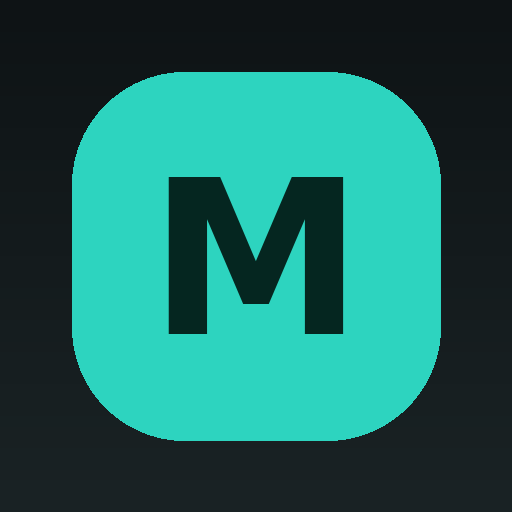
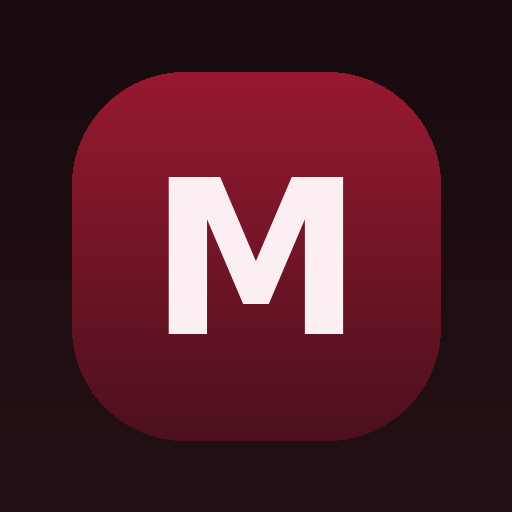
Add files via upload

diff --git a/index.html b/index.html
@@ -5,7 +5,7 @@
 <meta name="viewport" content="width=device-width, initial-scale=1.0, viewport-fit=cover, user-scalable=no">
 <title>MBC Driver Portal — Midnight Transit</title>
 <link rel="manifest" href="manifest.json">
-<meta name="theme-color" content="#0E1315">
+<meta name="theme-color" content="#170B0E">
 <link rel="icon" href="icon-192.png">
 <link rel="apple-touch-icon" href="icon-192.png">
 <meta name="mobile-web-app-capable" content="yes">
@@ -16,16 +16,16 @@
 <link href="https://fonts.googleapis.com/css2?family=Inter:wght@400;500;600;700&family=Space+Grotesk:wght@500;600;700&family=Noto+Nastaliq+Urdu:wght@500;700&family=Noto+Naskh+Arabic:wght@500;700&display=swap" rel="stylesheet">
 <style>
   :root{
-    --bg1:#0E1315; --bg2:#1A2325;
+    --bg1:#170B0E; --bg2:#241014;
     --glass: rgba(255,255,255,0.045);
     --glass-brd: rgba(255,255,255,0.10);
-    --accent:#2DD4BF; --accent-soft: rgba(45,212,191,0.16);
-    --text:#E7F3F1; --muted:#7E9490; --danger:#FF7A7A; --ok:#2DD4BF;
+    --accent:#A61B34; --accent-dark:#3D0F1A; --accent-soft: rgba(166,27,52,0.18);
+    --text:#F3E7E9; --muted:#A98890; --danger:#FF8A65; --ok:#3ADD8A; --ok-soft: rgba(58,221,138,0.15);
   }
   *{box-sizing:border-box;}
   body{
     margin:0; min-height:100vh; display:flex; align-items:center; justify-content:center;
-    background: radial-gradient(circle at 50% -10%, #17302d 0%, var(--bg1) 45%, var(--bg2) 100%);
+    background: radial-gradient(circle at 50% -10%, #3a1420 0%, var(--bg1) 45%, var(--bg2) 100%);
     font-family:'Inter',sans-serif; color:var(--text); padding:24px 12px;
   }
   h1, .card-title{ font-family:'Space Grotesk', sans-serif; }
@@ -45,7 +45,7 @@
     box-shadow: 0 30px 60px -20px rgba(0,0,0,0.6);
   }
   .screen{
-    border-radius:30px; overflow:hidden; min-height:720px;
+    border-radius:30px; overflow:hidden; overflow-y:auto; max-height: calc(100vh - 32px);
     background: var(--glass);
     backdrop-filter: blur(34px) saturate(170%);
     -webkit-backdrop-filter: blur(34px) saturate(170%);
@@ -66,15 +66,15 @@
     padding:6px 12px; border-radius:999px; border:1px solid var(--glass-brd);
     background:rgba(255,255,255,0.04); color:var(--muted); cursor:pointer;
   }
-  .lang-btn.active{ background:var(--accent); color:#0C1220; border-color:var(--accent); }
+  .lang-btn.active{ background:var(--accent); color:#FBEFF1; border-color:var(--accent); }
 
   .content{ padding:28px 26px 20px; position:relative; z-index:2; flex:1; display:flex; flex-direction:column; }
   .brandrow{ display:flex; align-items:center; gap:12px; margin-bottom:26px; }
   .logo{
-    width:44px; height:44px; border-radius:13px; flex:none;
-    background: linear-gradient(135deg, var(--accent), #1B8F80);
-    display:flex; align-items:center; justify-content:center; font-weight:800; font-size:18px; color:#052620;
-    box-shadow: 0 8px 20px -6px rgba(45,212,191,0.5);
+    width:38px; height:38px; border-radius:11px; flex:none;
+    background: linear-gradient(135deg, var(--accent), var(--accent-dark));
+    display:flex; align-items:center; justify-content:center; font-weight:800; font-size:16px; color:#FBEFF1;
+    box-shadow: 0 8px 20px -6px rgba(166,27,52,0.55);
   }
   h1{ font-size:19px; margin:0; font-weight:700; letter-spacing:.1px; }
   .tagline{ margin:2px 0 0; font-size:12.5px; color:var(--muted); line-height:1.4; }
@@ -94,9 +94,9 @@
 
   .primary-btn{
     width:100%; padding:14px; border:none; border-radius:12px; margin-top:6px;
-    background:linear-gradient(135deg, var(--accent), #1B8F80); color:#052620;
+    background:linear-gradient(135deg, var(--accent), var(--accent-dark)); color:#FBEFF1;
     font-size:14.5px; font-weight:700; cursor:pointer; letter-spacing:.2px;
-    box-shadow: 0 10px 24px -8px rgba(45,212,191,0.45);
+    box-shadow: 0 10px 24px -8px rgba(166,27,52,0.45);
   }
   .primary-btn:active{ transform: translateY(1px); }
 
@@ -127,12 +127,12 @@
   .icon-btn.exit-btn{ color:var(--danger); border-color:rgba(255,122,122,0.3); background:rgba(255,122,122,0.08); }
 
   @keyframes readyPulse{
-    0%,100%{ box-shadow: 0 10px 24px -8px rgba(45,212,191,0.45), 0 0 0 0 rgba(45,212,191,0.5); }
-    50%{ box-shadow: 0 10px 30px -6px rgba(45,212,191,0.7), 0 0 0 8px rgba(45,212,191,0); }
+    0%,100%{ box-shadow: 0 10px 24px -8px rgba(166,27,52,0.45), 0 0 0 0 rgba(166,27,52,0.5); }
+    50%{ box-shadow: 0 10px 30px -6px rgba(166,27,52,0.7), 0 0 0 8px rgba(166,27,52,0); }
   }
   .primary-btn.ready{ animation: readyPulse 1.4s ease-in-out infinite; }
 
-  .photo-row{ display:flex; gap:10px; justify-content:center; margin-bottom:8px; }
+  .photo-row{ display:flex; gap:10px; justify-content:center; margin-bottom:8px; cursor:pointer; }
   .photo-slot{
     width:72px; height:72px; border-radius:20px; border:1.5px dashed var(--glass-brd);
     background:rgba(255,255,255,0.05); background-size:cover; background-position:center;
@@ -143,9 +143,9 @@
 
   .success-wrap{ display:flex; flex-direction:column; align-items:center; text-align:center; padding:30px 6px; }
   .success-check{
-    width:74px; height:74px; border-radius:50%; background:var(--accent-soft);
+    width:74px; height:74px; border-radius:50%; background:var(--ok-soft);
     display:flex; align-items:center; justify-content:center; font-size:34px; color:var(--ok);
-    margin-bottom:18px; border:1.5px solid var(--accent);
+    margin-bottom:18px; border:1.5px solid var(--ok);
   }
   .success-title{ font-family:'Space Grotesk',sans-serif; font-size:18px; font-weight:700; margin:0 0 8px; }
   .success-sub{ font-size:12.5px; color:var(--muted); line-height:1.6; margin:0 0 26px; max-width:280px; }
@@ -201,13 +201,11 @@
       <p class="card-sub" id="step2Sub"></p>
 
       <div class="photo-wrap">
-        <div class="photo-row">
-          <input type="file" id="photoInput0" accept="image/*" style="display:none" onchange="onPhotoChosen(event,0)">
-          <div class="photo-slot" id="photoSlot0" onclick="document.getElementById('photoInput0').click()">📷</div>
-          <input type="file" id="photoInput1" accept="image/*" style="display:none" onchange="onPhotoChosen(event,1)">
-          <div class="photo-slot" id="photoSlot1" onclick="document.getElementById('photoInput1').click()">📷</div>
-          <input type="file" id="photoInput2" accept="image/*" style="display:none" onchange="onPhotoChosen(event,2)">
-          <div class="photo-slot" id="photoSlot2" onclick="document.getElementById('photoInput2').click()">📷</div>
+        <input type="file" id="photoInputMulti" accept="image/*" multiple style="display:none" onchange="onPhotosChosen(event)">
+        <div class="photo-row" onclick="document.getElementById('photoInputMulti').click()">
+          <div class="photo-slot" id="photoSlot0">📷</div>
+          <div class="photo-slot" id="photoSlot1">📷</div>
+          <div class="photo-slot" id="photoSlot2">📷</div>
         </div>
         <span class="photo-cap" id="photoLabel">Attach up to 3 photos</span>
       </div>
@@ -244,11 +242,11 @@ const LANGS = [
   {code:'hi', label:'हिं', rtl:false},
 ];
 const T = {
-  en:{appName:"MBC Driver Portal",tagline:"Verified access for Modern Bus Company drivers",loginTitle:"Sign in",empId:"Employee ID",empIdPh:"MBC-1042",empIdConfirm:"Re-enter Employee ID",loginBtn:"Continue",loginHint:"Only Employee IDs registered by MBC can sign in.",welcomeDear:"Welcome, Dear {name}",step2Sub:"This information is saved against Employee ID {id}",photoLabel:"Attach up to 3 photos",email:"Email address",emailConfirm:"Re-enter email address",mobile:"WhatsApp Number (Saudi)",mobileConfirm:"Re-enter WhatsApp Number",submit:"Save details",footer:"Modern Bus Company · Makkah",errNotFound:"Please check your Employee ID — this ID does not look correct.",errMismatch:"The two Employee ID entries do not match.",errEmailMismatch:"The two email addresses do not match. Please check and try again.",errMobileMismatch:"The two WhatsApp numbers do not match. Please check and try again.",errMobileLength:"Please enter a valid WhatsApp number — it looks too short.",savedMsg:"Saved successfully.",backLabel:"Back",exitLabel:"Exit",successTitle:"Submitted!",successSub:"Your details have been saved. Tap Exit and sign in again to submit for another driver."},
-  ur:{appName:"ایم بی سی ڈرائیور پورٹل",tagline:"ماڈرن بس کمپنی کے ڈرائیورز کے لیے تصدیق شدہ رسائی",loginTitle:"لاگ ان کریں",empId:"ایمپلائی آئی ڈی",empIdPh:"MBC-1042",empIdConfirm:"ایمپلائی آئی ڈی دوبارہ درج کریں",loginBtn:"جاری رکھیں",loginHint:"صرف وہ ایمپلائی آئی ڈی جو MBC نے رجسٹر کی ہیں لاگ ان کر سکتی ہیں۔",welcomeDear:"خوش آمدید، پیارے {name}",step2Sub:"یہ معلومات ایمپلائی آئی ڈی {id} کے ساتھ محفوظ ہوں گی",photoLabel:"زیادہ سے زیادہ 3 تصاویر منسلک کریں",email:"ای میل ایڈریس",emailConfirm:"ای میل دوبارہ درج کریں",mobile:"واٹس ایپ نمبر (سعودی)",mobileConfirm:"واٹس ایپ نمبر دوبارہ درج کریں",submit:"تفصیلات محفوظ کریں",footer:"ماڈرن بس کمپنی · مکہ",errNotFound:"اپنی آئی ڈی پر غور کریں، یہ آئی ڈی غلط لگ رہی ہے۔",errMismatch:"دونوں دفعہ درج کی گئی آئی ڈی ایک جیسی نہیں ہیں۔",errEmailMismatch:"آپ کی ای میل میچ نہیں ہو رہی، دوبارہ چیک کریں۔",errMobileMismatch:"آپ کا نمبر میچ نہیں ہو رہا، دوبارہ چیک کریں۔",errMobileLength:"درست واٹس ایپ نمبر درج کریں، یہ نمبر بہت مختصر لگ رہا ہے۔",savedMsg:"کامیابی سے محفوظ ہو گیا۔",backLabel:"پیچھے",exitLabel:"باہر نکلیں",successTitle:"جمع ہو گیا!",successSub:"آپ کی تفصیلات محفوظ ہو گئی ہیں۔ دوبارہ جمع کروانے کے لیے Exit دبائیں اور دوبارہ لاگ ان کریں۔"},
-  ar:{appName:"بوابة سائقي إم بي سي",tagline:"دخول موثّق لسائقي شركة الحافلات الحديثة",loginTitle:"تسجيل الدخول",empId:"رقم الموظف",empIdPh:"MBC-1042",empIdConfirm:"أعد إدخال رقم الموظف",loginBtn:"متابعة",loginHint:"يمكن فقط لأرقام الموظفين المسجّلة لدى الشركة تسجيل الدخول.",welcomeDear:"أهلاً وسهلاً، عزيزي {name}",step2Sub:"سيتم حفظ هذه المعلومات مع رقم الموظف {id}",photoLabel:"أرفق حتى 3 صور",email:"البريد الإلكتروني",emailConfirm:"أعد إدخال البريد الإلكتروني",mobile:"رقم واتساب (السعودية)",mobileConfirm:"أعد إدخال رقم واتساب",submit:"حفظ البيانات",footer:"شركة الحافلات الحديثة · مكة",errNotFound:"يرجى مراجعة رقم موظفك، هذا الرقم يبدو غير صحيح.",errMismatch:"رقما الموظف المدخلان غير متطابقين.",errEmailMismatch:"البريدان الإلكترونيان غير متطابقين، يرجى التحقق مرة أخرى.",errMobileMismatch:"رقما واتساب غير متطابقين، يرجى التحقق مرة أخرى.",errMobileLength:"يرجى إدخال رقم واتساب صحيح، الرقم يبدو قصيراً جداً.",savedMsg:"تم الحفظ بنجاح.",backLabel:"رجوع",exitLabel:"خروج",successTitle:"تم الإرسال!",successSub:"تم حفظ بياناتك. اضغط خروج وسجّل الدخول مرة أخرى للإرسال مجددًا."},
-  id:{appName:"Portal Sopir MBC",tagline:"Akses terverifikasi untuk sopir Modern Bus Company",loginTitle:"Masuk",empId:"ID Karyawan",empIdPh:"MBC-1042",empIdConfirm:"Masukkan ulang ID Karyawan",loginBtn:"Lanjutkan",loginHint:"Hanya ID Karyawan yang terdaftar di MBC yang bisa masuk.",welcomeDear:"Selamat datang, {name}",step2Sub:"Informasi ini disimpan untuk ID Karyawan {id}",photoLabel:"Lampirkan hingga 3 foto",email:"Alamat email",emailConfirm:"Masukkan ulang email",mobile:"Nomor WhatsApp (Saudi)",mobileConfirm:"Masukkan ulang nomor WhatsApp",submit:"Simpan data",footer:"Modern Bus Company · Makkah",errNotFound:"Silakan periksa kembali ID Karyawan Anda, ID ini tampaknya salah.",errMismatch:"Kedua ID Karyawan yang dimasukkan tidak cocok.",errEmailMismatch:"Kedua alamat email tidak cocok. Silakan periksa kembali.",errMobileMismatch:"Kedua nomor WhatsApp tidak cocok. Silakan periksa kembali.",errMobileLength:"Masukkan nomor WhatsApp yang valid, nomor ini tampak terlalu pendek.",savedMsg:"Berhasil disimpan.",backLabel:"Kembali",exitLabel:"Keluar",successTitle:"Berhasil dikirim!",successSub:"Data Anda telah disimpan. Tekan Keluar dan masuk lagi untuk mengirim data baru."},
-  hi:{appName:"एमबीसी ड्राइवर पोर्टल",tagline:"मॉडर्न बस कंपनी के ड्राइवरों के लिए सत्यापित पहुंच",loginTitle:"साइन इन करें",empId:"कर्मचारी आईडी",empIdPh:"MBC-1042",empIdConfirm:"कर्मचारी आईडी दोबारा दर्ज करें",loginBtn:"जारी रखें",loginHint:"केवल MBC में दर्ज कर्मचारी आईडी ही साइन इन कर सकती हैं।",welcomeDear:"स्वागत है, प्रिय {name}",step2Sub:"यह जानकारी कर्मचारी आईडी {id} के साथ सहेजी जाएगी",photoLabel:"अधिकतम 3 फ़ोटो अटैच करें",email:"ईमेल पता",emailConfirm:"ईमेल दोबारा दर्ज करें",mobile:"व्हाट्सएप नंबर (सऊदी)",mobileConfirm:"व्हाट्सएप नंबर दोबारा दर्ज करें",submit:"जानकारी सहेजें",footer:"मॉडर्न बस कंपनी · मक्का",errNotFound:"अपनी कर्मचारी आईडी दोबारा देखें, यह आईडी गलत लग रही है।",errMismatch:"दर्ज की गई दोनों आईडी मेल नहीं खातीं।",errEmailMismatch:"आपका ईमेल मेल नहीं खा रहा, दोबारा जांचें।",errMobileMismatch:"आपका नंबर मेल नहीं खा रहा, दोबारा जांचें।",errMobileLength:"कृपया सही व्हाट्सएप नंबर दर्ज करें, यह नंबर बहुत छोटा लग रहा है।",savedMsg:"सफलतापूर्वक सहेजा गया।",backLabel:"वापस",exitLabel:"बाहर निकलें",successTitle:"सबमिट हो गया!",successSub:"आपकी जानकारी सहेज ली गई है। दोबारा सबमिट करने के लिए Exit दबाएं और फिर से लॉगिन करें।"},
+  en:{appName:"MBC Driver Portal",tagline:"Verified access for Modern Bus Company drivers",loginTitle:"Sign in",empId:"Employee ID",empIdPh:"Ex.11410",empIdConfirm:"Re-enter Employee ID",loginBtn:"Continue",loginHint:"Only Employee IDs registered by MBC can sign in.",welcomeDear:"Welcome, Dear {name}",step2Sub:"This information is saved against Employee ID {id}",photoLabel:"Attach up to 3 photos",email:"Email address",emailConfirm:"Re-enter email address",mobile:"WhatsApp Number (Saudi)",mobileConfirm:"Re-enter WhatsApp Number",submit:"Save details",footer:"Modern Bus Company · Makkah",errNotFound:"Please check your Employee ID — this ID does not look correct.",errMismatch:"The two Employee ID entries do not match.",errEmailMismatch:"The two email addresses do not match. Please check and try again.",errMobileMismatch:"The two WhatsApp numbers do not match. Please check and try again.",errMobileLength:"Please enter a valid WhatsApp number — it looks too short.",savedMsg:"Saved successfully.",backLabel:"Back",exitLabel:"Exit",successTitle:"Submitted!",successSub:"Your details have been saved. Tap Exit and sign in again to submit for another driver."},
+  ur:{appName:"ایم بی سی ڈرائیور پورٹل",tagline:"ماڈرن بس کمپنی کے ڈرائیورز کے لیے تصدیق شدہ رسائی",loginTitle:"لاگ ان کریں",empId:"ایمپلائی آئی ڈی",empIdPh:"Ex.11410",empIdConfirm:"ایمپلائی آئی ڈی دوبارہ درج کریں",loginBtn:"جاری رکھیں",loginHint:"صرف وہ ایمپلائی آئی ڈی جو MBC نے رجسٹر کی ہیں لاگ ان کر سکتی ہیں۔",welcomeDear:"خوش آمدید، پیارے {name}",step2Sub:"یہ معلومات ایمپلائی آئی ڈی {id} کے ساتھ محفوظ ہوں گی",photoLabel:"زیادہ سے زیادہ 3 تصاویر منسلک کریں",email:"ای میل ایڈریس",emailConfirm:"ای میل دوبارہ درج کریں",mobile:"واٹس ایپ نمبر (سعودی)",mobileConfirm:"واٹس ایپ نمبر دوبارہ درج کریں",submit:"تفصیلات محفوظ کریں",footer:"ماڈرن بس کمپنی · مکہ",errNotFound:"اپنی آئی ڈی پر غور کریں، یہ آئی ڈی غلط لگ رہی ہے۔",errMismatch:"دونوں دفعہ درج کی گئی آئی ڈی ایک جیسی نہیں ہیں۔",errEmailMismatch:"آپ کی ای میل میچ نہیں ہو رہی، دوبارہ چیک کریں۔",errMobileMismatch:"آپ کا نمبر میچ نہیں ہو رہا، دوبارہ چیک کریں۔",errMobileLength:"درست واٹس ایپ نمبر درج کریں، یہ نمبر بہت مختصر لگ رہا ہے۔",savedMsg:"کامیابی سے محفوظ ہو گیا۔",backLabel:"پیچھے",exitLabel:"باہر نکلیں",successTitle:"جمع ہو گیا!",successSub:"آپ کی تفصیلات محفوظ ہو گئی ہیں۔ دوبارہ جمع کروانے کے لیے Exit دبائیں اور دوبارہ لاگ ان کریں۔"},
+  ar:{appName:"بوابة سائقي إم بي سي",tagline:"دخول موثّق لسائقي شركة الحافلات الحديثة",loginTitle:"تسجيل الدخول",empId:"رقم الموظف",empIdPh:"Ex.11410",empIdConfirm:"أعد إدخال رقم الموظف",loginBtn:"متابعة",loginHint:"يمكن فقط لأرقام الموظفين المسجّلة لدى الشركة تسجيل الدخول.",welcomeDear:"أهلاً وسهلاً، عزيزي {name}",step2Sub:"سيتم حفظ هذه المعلومات مع رقم الموظف {id}",photoLabel:"أرفق حتى 3 صور",email:"البريد الإلكتروني",emailConfirm:"أعد إدخال البريد الإلكتروني",mobile:"رقم واتساب (السعودية)",mobileConfirm:"أعد إدخال رقم واتساب",submit:"حفظ البيانات",footer:"شركة الحافلات الحديثة · مكة",errNotFound:"يرجى مراجعة رقم موظفك، هذا الرقم يبدو غير صحيح.",errMismatch:"رقما الموظف المدخلان غير متطابقين.",errEmailMismatch:"البريدان الإلكترونيان غير متطابقين، يرجى التحقق مرة أخرى.",errMobileMismatch:"رقما واتساب غير متطابقين، يرجى التحقق مرة أخرى.",errMobileLength:"يرجى إدخال رقم واتساب صحيح، الرقم يبدو قصيراً جداً.",savedMsg:"تم الحفظ بنجاح.",backLabel:"رجوع",exitLabel:"خروج",successTitle:"تم الإرسال!",successSub:"تم حفظ بياناتك. اضغط خروج وسجّل الدخول مرة أخرى للإرسال مجددًا."},
+  id:{appName:"Portal Sopir MBC",tagline:"Akses terverifikasi untuk sopir Modern Bus Company",loginTitle:"Masuk",empId:"ID Karyawan",empIdPh:"Ex.11410",empIdConfirm:"Masukkan ulang ID Karyawan",loginBtn:"Lanjutkan",loginHint:"Hanya ID Karyawan yang terdaftar di MBC yang bisa masuk.",welcomeDear:"Selamat datang, {name}",step2Sub:"Informasi ini disimpan untuk ID Karyawan {id}",photoLabel:"Lampirkan hingga 3 foto",email:"Alamat email",emailConfirm:"Masukkan ulang email",mobile:"Nomor WhatsApp (Saudi)",mobileConfirm:"Masukkan ulang nomor WhatsApp",submit:"Simpan data",footer:"Modern Bus Company · Makkah",errNotFound:"Silakan periksa kembali ID Karyawan Anda, ID ini tampaknya salah.",errMismatch:"Kedua ID Karyawan yang dimasukkan tidak cocok.",errEmailMismatch:"Kedua alamat email tidak cocok. Silakan periksa kembali.",errMobileMismatch:"Kedua nomor WhatsApp tidak cocok. Silakan periksa kembali.",errMobileLength:"Masukkan nomor WhatsApp yang valid, nomor ini tampak terlalu pendek.",savedMsg:"Berhasil disimpan.",backLabel:"Kembali",exitLabel:"Keluar",successTitle:"Berhasil dikirim!",successSub:"Data Anda telah disimpan. Tekan Keluar dan masuk lagi untuk mengirim data baru."},
+  hi:{appName:"एमबीसी ड्राइवर पोर्टल",tagline:"मॉडर्न बस कंपनी के ड्राइवरों के लिए सत्यापित पहुंच",loginTitle:"साइन इन करें",empId:"कर्मचारी आईडी",empIdPh:"Ex.11410",empIdConfirm:"कर्मचारी आईडी दोबारा दर्ज करें",loginBtn:"जारी रखें",loginHint:"केवल MBC में दर्ज कर्मचारी आईडी ही साइन इन कर सकती हैं।",welcomeDear:"स्वागत है, प्रिय {name}",step2Sub:"यह जानकारी कर्मचारी आईडी {id} के साथ सहेजी जाएगी",photoLabel:"अधिकतम 3 फ़ोटो अटैच करें",email:"ईमेल पता",emailConfirm:"ईमेल दोबारा दर्ज करें",mobile:"व्हाट्सएप नंबर (सऊदी)",mobileConfirm:"व्हाट्सएप नंबर दोबारा दर्ज करें",submit:"जानकारी सहेजें",footer:"मॉडर्न बस कंपनी · मक्का",errNotFound:"अपनी कर्मचारी आईडी दोबारा देखें, यह आईडी गलत लग रही है।",errMismatch:"दर्ज की गई दोनों आईडी मेल नहीं खातीं।",errEmailMismatch:"आपका ईमेल मेल नहीं खा रहा, दोबारा जांचें।",errMobileMismatch:"आपका नंबर मेल नहीं खा रहा, दोबारा जांचें।",errMobileLength:"कृपया सही व्हाट्सएप नंबर दर्ज करें, यह नंबर बहुत छोटा लग रहा है।",savedMsg:"सफलतापूर्वक सहेजा गया।",backLabel:"वापस",exitLabel:"बाहर निकलें",successTitle:"सबमिट हो गया!",successSub:"आपकी जानकारी सहेज ली गई है। दोबारा सबमिट करने के लिए Exit दबाएं और फिर से लॉगिन करें।"},
 };
 // Your deployed Apps Script Web App URL
 const API_URL = 'https://script.google.com/macros/s/AKfycbxJJ_BIOp4RffNmyJ9pS4IT8xKfi4ijHlPuGoWUxla8M7_rdPsrFobkf1Zd55U9UIrl/exec';
@@ -318,18 +316,24 @@ function setLang(code){
   document.getElementById('successSub').textContent=t.successSub;
   buildLangBar();
 }
-function onPhotoChosen(ev, idx){
-  const file = ev.target.files[0];
-  if(!file) return;
-  photosMime[idx] = file.type;
-  const reader = new FileReader();
-  reader.onload = function(e){
-    photosBase64[idx] = e.target.result;
-    const slot = document.getElementById('photoSlot'+idx);
-    slot.style.backgroundImage = `url(${photosBase64[idx]})`;
-    slot.textContent = '';
-  };
-  reader.readAsDataURL(file);
+function onPhotosChosen(ev){
+  const files = Array.from(ev.target.files).slice(0,3);
+  photosBase64 = [null,null,null]; photosMime = [null,null,null];
+  [0,1,2].forEach(i=>{
+    const slot=document.getElementById('photoSlot'+i);
+    slot.style.backgroundImage=''; slot.textContent='📷';
+  });
+  files.forEach((file, idx)=>{
+    photosMime[idx] = file.type;
+    const reader = new FileReader();
+    reader.onload = function(e){
+      photosBase64[idx] = e.target.result;
+      const slot = document.getElementById('photoSlot'+idx);
+      slot.style.backgroundImage = `url(${photosBase64[idx]})`;
+      slot.textContent = '';
+    };
+    reader.readAsDataURL(file);
+  });
 }
 function normalizeDigits(v){ return (v||'').replace(/\D/g,''); }
 function checkReady(){
@@ -356,6 +360,7 @@ function resetApp(){
   document.getElementById('mobileInput').value='';
   document.getElementById('mobileConfirmInput').value='';
   photosBase64=[null,null,null]; photosMime=[null,null,null];
+  document.getElementById('photoInputMulti').value='';
   [0,1,2].forEach(i=>{
     const slot=document.getElementById('photoSlot'+i);
     slot.style.backgroundImage=''; slot.textContent='📷';

diff --git a/service-worker.js b/service-worker.js
@@ -1,4 +1,4 @@
-const CACHE_NAME = 'mbc-driver-portal-v2';
+const CACHE_NAME = 'mbc-driver-portal-v3';
 const ASSETS = ['./manifest.json', './icon-192.png', './icon-512.png'];
 
 self.addEventListener('install', (event) => {
